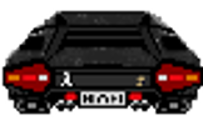
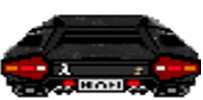
agrego background medio medio

diff --git a/PEPAS/src/com.pepas.controllers/clienteController.cpp b/PEPAS/src/com.pepas.controllers/clienteController.cpp
@@ -36,8 +36,8 @@ ClienteController::ClienteController(const char* archivo){
     this->car = new Textura();
 
      PressUP = false;
-    offsetBackgroundTree = -1000;
-    offsetBackgroundHills = -1000;
+    offsetBackgroundTree = -2000;
+    offsetBackgroundHills = -2000;
 
 
 
@@ -412,7 +412,7 @@ void ClienteController::dibujar(){
             int maxy = SCREEN_HEIGHT;
 
             roadW = 2000;
-            segL = 100; //segment length
+            segL = 200; //segment length
             camD = 0.84f; //camera depth
 
              x = 0;
@@ -549,17 +549,17 @@ void ClienteController::dibujar(){
                 int cartel = obj->getCartel();
                 string lado = obj->getLado();
                 if (arbol != 0 && lado == "D")
-                    obstaculos->emplace(-distancia, this->arbol);
-                if (arbol != 0 && lado == "I")
                     obstaculos->emplace(distancia, this->arbol);
+                if (arbol != 0 && lado == "I")
+                    obstaculos->emplace(-distancia, this->arbol);
                 if (cartel == 80 && lado == "D")
-                    obstaculos->emplace(-distancia, this->cartel);
-                if (cartel == 80 && lado == "I")
                     obstaculos->emplace(distancia, this->cartel);
+                if (cartel == 80 && lado == "I")
+                    obstaculos->emplace(-distancia, this->cartel);
                 if (cartel == 120 && lado == "D")
-                    obstaculos->emplace(-distancia, this->cartel2);
-                if (cartel == 120 && lado == "I")
                     obstaculos->emplace(distancia, this->cartel2);
+                if (cartel == 120 && lado == "I")
+                    obstaculos->emplace(-distancia, this->cartel2);
 
             }
             std::map<int,Textura*>::iterator it_obst;
@@ -719,13 +719,18 @@ void ClienteController::dibujar(){
 
                 //cout<<pos/200<<endl;
 
-                //checkCurveAndSetCentrifuga(curveSet);
+                checkCurveAndSetCentrifuga(curveSet);
                 //autito->calculateMove(PressUP, curveR, curveL); //TODO lo hace el servidor
 
                 car->render(cliente->getX(), 618, this->renderer);
                 this->actualizarMinimapa(this->cliente->getMinimapa());
 
                 SDL_RenderPresent(this->renderer);
+
+                posMoving = cliente->getPosition();
+                if (posMoving != pos){
+                    moving = true;
+                } else moving = false;
 
 			}
 
@@ -840,19 +845,19 @@ void ClienteController::checkCurveAndSetCentrifuga(int curve) {
 }
 
 void ClienteController::backgroundMove() {
-    if (curveR && autito->isMoving()) {
+    if (curveR && moving) {
         sky.render(0, 0, this->renderer);
         hills.render(offsetBackgroundHills, 20, this->renderer);
         trees.render(offsetBackgroundTree, 20, this->renderer);
-        offsetBackgroundHills -= 0.05;
-        offsetBackgroundTree -= 0.1;
+        offsetBackgroundHills -= 0.5;
+        offsetBackgroundTree -= 1;
     }
-    if (curveL && autito->isMoving()) {
+    if (curveL && moving) {
         sky.render(0, 0, this->renderer);
         hills.render(offsetBackgroundHills, 20, this->renderer);
         trees.render(offsetBackgroundTree, 20, this->renderer);
-        offsetBackgroundHills += 0.05;
-        offsetBackgroundTree += 0.1;
+        offsetBackgroundHills += 0.5;
+        offsetBackgroundTree += 1;
     }
     else{
         sky.render(0, 0, this->renderer);

diff --git a/PEPAS/src/com.pepas.model/socket.cpp b/PEPAS/src/com.pepas.model/socket.cpp
@@ -97,7 +97,7 @@ void Socket::Enviar(int socket, const void *mensaje, size_t mensajeLength) {
         ssize_t totalEnviado= 0;
         ssize_t ultimaCantidadEnviada = 0;
         const char* msg = (const char*)mensaje;
-        cout<<msg<<endl;
+        //cout<<msg<<endl;
         while (totalEnviado < (int)mensajeLength){
             ultimaCantidadEnviada = send(socket, mensaje + totalEnviado, mensajeLength-totalEnviado, MSG_NOSIGNAL);
             if (ultimaCantidadEnviada < 0) {

diff --git a/PEPAS/headers/com.pepas.controllers/clienteController.h b/PEPAS/headers/com.pepas.controllers/clienteController.h
@@ -42,9 +42,10 @@ private:
 	threadMinimapa threadGraficoMinimapa;
 
 
-    bool reconexion; 
+    bool reconexion, moving;
     char ipAddress[20];
     char testFile [100];
+	int posMoving;
 
     SDL_Window* window;
     SDL_Renderer* renderer;
